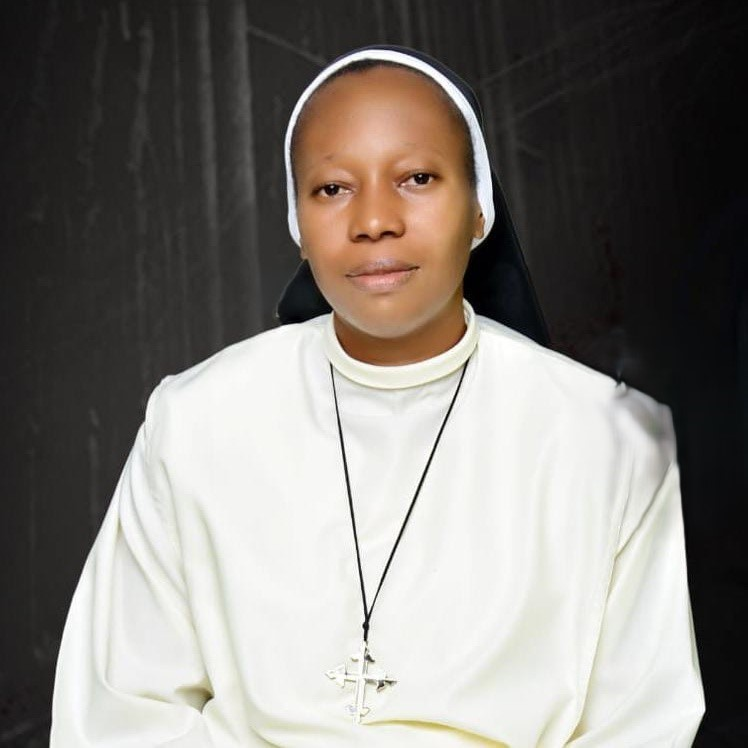
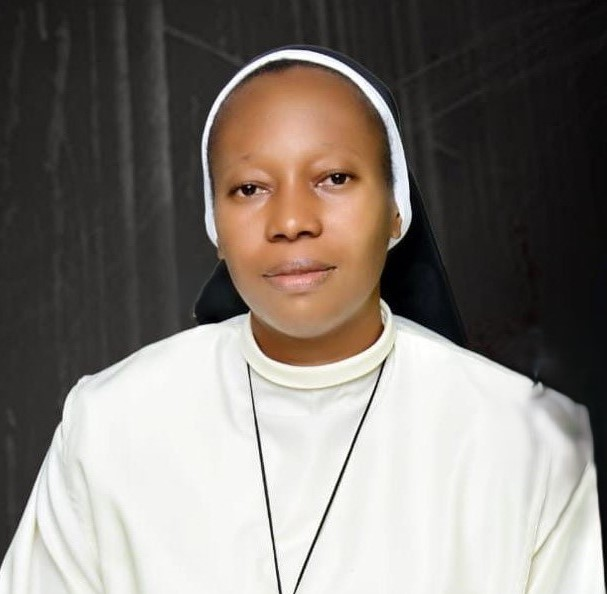
updated grid display

diff --git a/about.css b/about.css
@@ -28,11 +28,16 @@ body {
 
 .about-hero h1 {
     position: absolute;
-    bottom: 20px;
-    left: 20px;
+    bottom: 55px;
+    left: 30px;
     font-family: 'Raleway', sans-serif;
     font-size: 2.5rem;
+    font-weight: 600;
     color: white;
+    border: 2px solid white;
+    background-color: rgba(0,0,0,0.3);
+    padding: 5px 10px;
+    border-radius: 8px;
 }
 
 /* SECTION */
@@ -53,6 +58,7 @@ section p {
     text-align: center;
     max-width: 700px;
     margin: auto;
+    font-size: 1.2rem;
 }
 
 /* GRID LAYOUT */
@@ -73,7 +79,7 @@ section p {
 }
 
 /* IMAGE */
-.about-card img {
+.about-cards img {
     width: 100%;
     height: 220px;
     object-fit: cover;
@@ -81,11 +87,11 @@ section p {
 }
 
 /* HOVER EFFECT */
-.about-card:hover img {
+.about-cards:hover img {
     transform: scale(1.05);
 }
 
-.about-card:hover {
+.about-cards:hover {
     box-shadow: 0 8px 20px rgba(0,0,0,0.2);
 }
 
@@ -119,7 +125,7 @@ section p {
     background: #f1f1f1;
     padding: 10px 20px;
     border-radius: 20px;
-    font-size: 14px;
+    font-size: 16px;
     transition: 0.3s;
 }
 
@@ -151,6 +157,27 @@ button:hover {
     text-align: center;
 }
 
+/*ABOUT CARD*/
+.about-card {
+    display: flex;
+    flex-direction: column;
+    align-items: center;
+    padding: 20px;
+}
+
+.about-card img {
+    width: 200px;
+    height: 200px;
+    object-fit: cover;
+    align-self: center;
+    border-radius: 100%;
+}
+
+.about-card:hover img {
+    transform: scale(1.05);
+    border: 2px solid aqua;
+}
+
 /* RESPONSIVE */
 @media (max-width: 768px) {
     .about-hero {
@@ -163,5 +190,24 @@ button:hover {
 
     h2 {
         font-size: 1.5rem;
+    }
+}
+
+@media (min-width: 768px) {
+    .about-grid {
+    display: grid;
+    grid-template-columns:repeat(3, 1fr);
+    gap: 20px;
+    align-items: start;
+    }
+
+    .about-grid > :nth-child(4) {
+    grid-column: 1; /* left */
+    grid-row: 2;
+    }
+
+    .about-grid > :nth-child(5) {
+    grid-column: 3; /* right */
+    grid-row: 2;
     }
 }

diff --git a/about.html b/about.html
@@ -35,7 +35,7 @@
 
     <div class="about-grid">
 
-        <div class="about-card">
+        <div class="about-cards">
             <img src="images/car0.jpg" alt="Different types of cars available at Naija Autos">
             <div class="about-details">
                 <h4>Wide Selection</h4>
@@ -43,7 +43,7 @@
             </div>
         </div>
 
-        <div class="about-card">
+        <div class="about-cards">
             <img src="images/car2.jpg" alt="Affordable and quality cars">
             <div class="about-details">
                 <h4>Affordable Prices</h4>
@@ -51,7 +51,7 @@
             </div>
         </div>
 
-        <div class="about-card">
+        <div class="about-cards">
             <img src="images/car3.jpg" alt="Reliable and trusted vehicles">
             <div class="about-details">
                 <h4>Trusted Quality</h4>